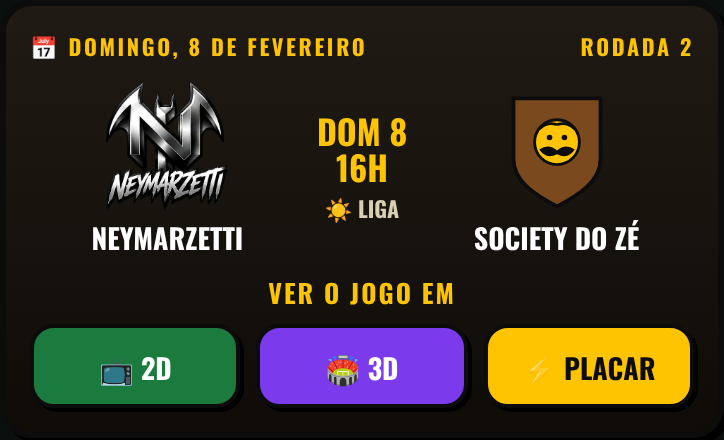
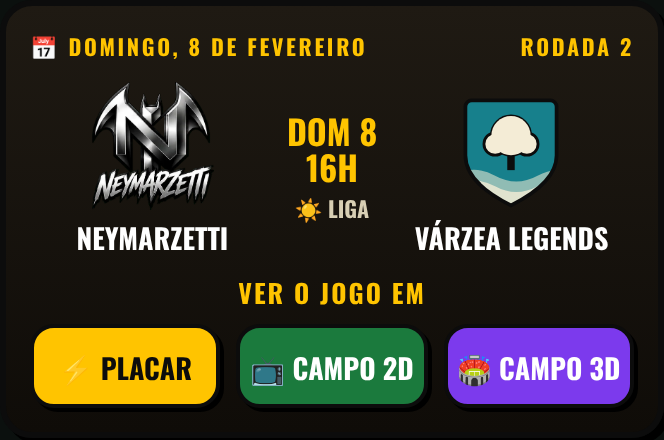
Central: botões do próximo jogo na ordem Placar · Campo 2D · Campo 3D (pedido do Diego)
Claude-Session: https://claude.ai/code/session_012GPrTDbpvrApA6DArkzCpE

diff --git a/src/escalacao/calendario-ui.tsx b/src/escalacao/calendario-ui.tsx
@@ -184,9 +184,10 @@ export function CalendarioProximo(p: PropsProx) {
       {p.escolha && p.compacto ? <div style={{ marginTop: 10 }}>
         <b style={{ display: 'block', textAlign: 'center', font: '800 13px Oswald,sans-serif', letterSpacing: '.08em', textTransform: 'uppercase', color: '#FFC400', marginBottom: 6 }}>{tr('Ver o jogo em', 'Watch the match in')}</b>
         <div style={{ display: 'grid', gridTemplateColumns: p.escolha.rapido ? '1fr 1fr 1fr' : '1fr 1fr', gap: 8 }}>
-          <button className="go" onClick={p.escolha.d2} style={{ margin: 0, fontSize: 14, padding: '7px 4px', borderWidth: 2, boxShadow: '2px 2px 0 #000', background: '#1B7A3D', color: '#fff' }}>{tr('📺 2D', '📺 2D')}</button>
-          <button className="go" onClick={p.escolha.d3} style={{ margin: 0, fontSize: 14, padding: '7px 4px', borderWidth: 2, boxShadow: '2px 2px 0 #000', background: '#7C3AED', color: '#fff' }}>{tr('🏟 3D', '🏟 3D')}</button>
+          {/* 24/11 (Diego: "coloque só placar na frente… placar, campo 2D e campo 3D") */}
           {p.escolha.rapido && <button className="go" onClick={p.escolha.rapido} style={{ margin: 0, fontSize: 14, padding: '7px 4px', borderWidth: 2, boxShadow: '2px 2px 0 #000', background: '#FFC400', color: '#0C0C0C' }}>{tr('⚡ Placar', '⚡ Score')}</button>}
+          <button className="go" onClick={p.escolha.d2} style={{ margin: 0, fontSize: 14, padding: '7px 4px', borderWidth: 2, boxShadow: '2px 2px 0 #000', background: '#1B7A3D', color: '#fff' }}>{tr('📺 Campo 2D', '📺 2D pitch')}</button>
+          <button className="go" onClick={p.escolha.d3} style={{ margin: 0, fontSize: 14, padding: '7px 4px', borderWidth: 2, boxShadow: '2px 2px 0 #000', background: '#7C3AED', color: '#fff' }}>{tr('🏟 Campo 3D', '🏟 3D pitch')}</button>
         </div>
       </div>
       : p.escolha ? <div style={{ marginTop: 10 }}>

diff --git a/docs/pendencias.md b/docs/pendencias.md
@@ -15292,7 +15292,7 @@ Medido com `scripts/mapa3d/perfil-jogo.mjs` (bancada), `perfil-carreira.mjs` (ca
   sem sair da carreira) com "Crie sua conta grátis pra salvar sua carreira". Criou a conta → o botão vira o Salvar normal.
 - Faixa da Central (visual antigo) ganhou o estado 'sem_conta'. A bancada local não simula "sem conta" (fica como "ainda não sabe"), então não deu print.
 
-## ⚽ 24/11 — Placar rápido da carreira: bolinha parada + capa da Central desalinhada (prints do Diego) — no BRANCH, esperando "publica"
+## ⚽ 24/11 — Placar rápido da carreira: bolinha parada + capa da Central desalinhada (prints do Diego) — PUBLICADO (botões na ordem Placar · Campo 2D · Campo 3D, pedido dele)
 - Causa da bola parada: com o motor novo (`apresentarMotorOficial`) as chances sorteadas e o voo do gol saíam de cena e nada entrava no lugar.
   Agora `chancesDoRelato` (chances.ts) tira do relato oficial as defesas (encaixa/rebote) e a trave, e o gol do relato solta a bola pra rede
   (`golPalco`). Conferido na bancada: defendeu e gol animando.
